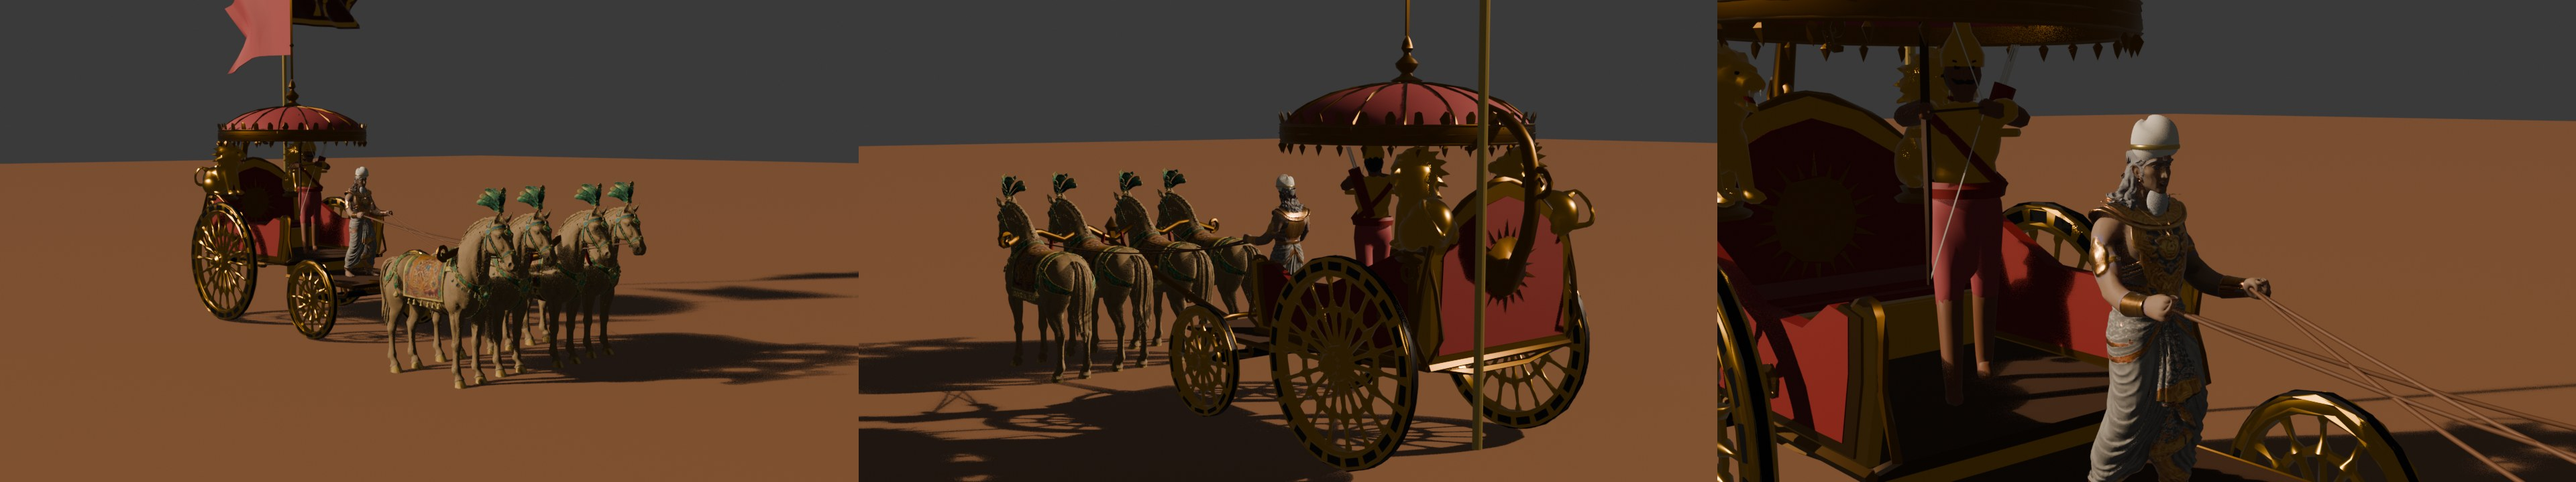
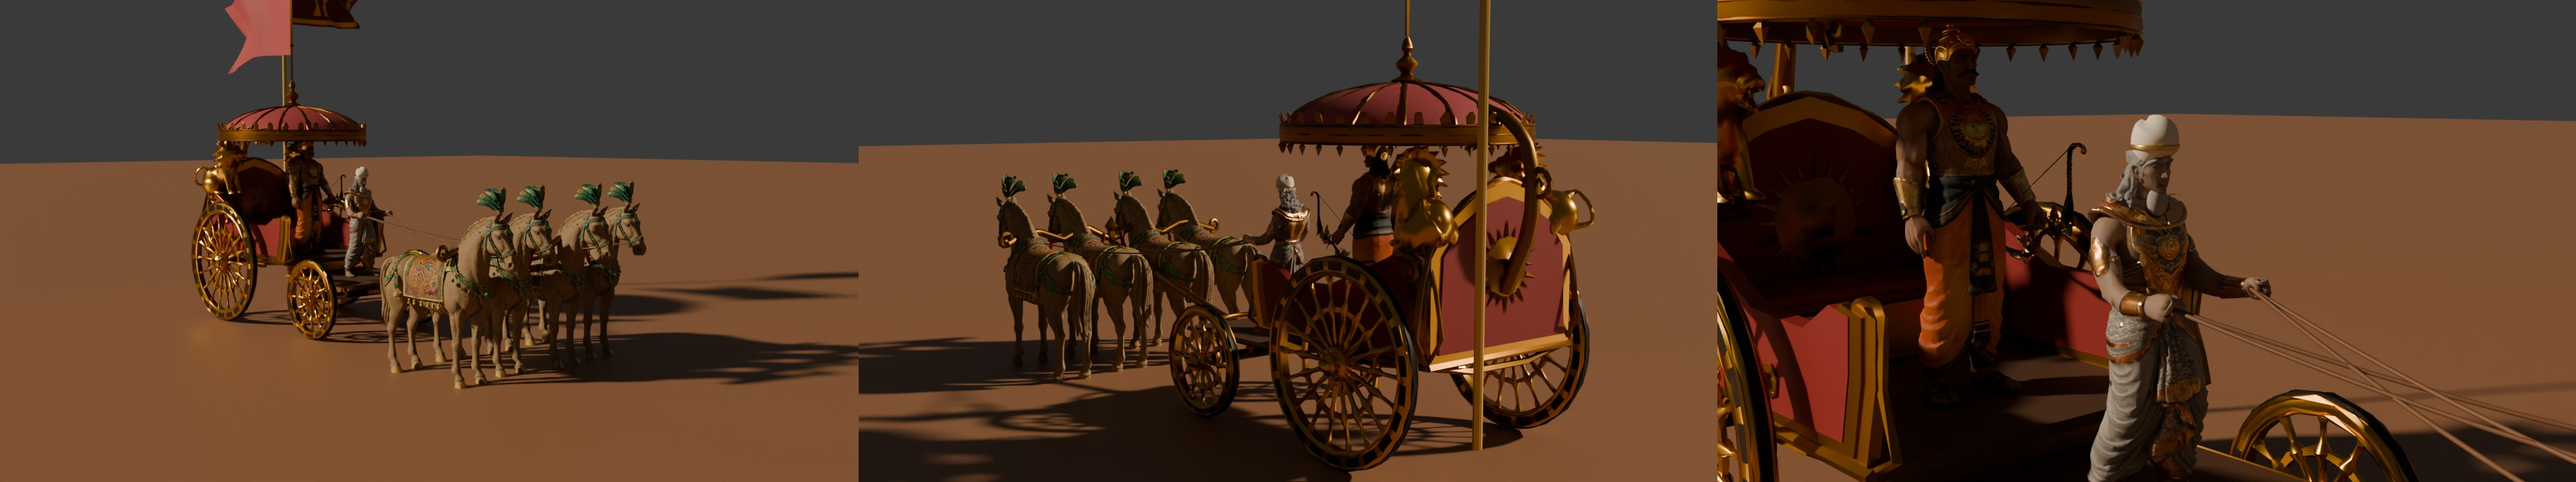
Put Karna (hero v4, Vijaya bow) on his chariot; fix the 13 GB check render
The kit chariot's generic archer is cut out like the kit driver, and Karna's
hero rig stands in his place with the Vijaya bow (decimated for mid-ground).
Check renders move to Cycles on the CPU with the heroes' render subdivision
off: that subdivision alone cost about 5.5 GB per hero and pushed the scene
past the 16 GB cloud box.

Claude-Session: https://claude.ai/code/session_01PKcboZPFsQWB6hA3KBm3Yg

diff --git a/studio/tools/blender/karna_chariot.py b/studio/tools/blender/karna_chariot.py
@@ -1,19 +1,24 @@
-"""Karna's chariot as used in the teaser: kit rank chariot (kit driver cut out), Shalya at the reins,
-the elephant's-rope standard, and a dun team of Hastinapur horses.
+"""Karna's chariot as used in the teaser: kit rank chariot (kit driver and kit archer cut out), Shalya at the
+reins, Karna (karna_hero_v4, Vijaya bow in his left fist) standing behind him, the elephant's-rope standard,
+and a dun team of Hastinapur horses.
 
     import karna_chariot
-    ch, shalya, team = karna_chariot.build(rigged=True, reins_on=True)   # team["rigs"] holds the horse rigs
+    ch, shalya, team, karna, bow = karna_chariot.build(rigged=True, reins_on=True)   # team["rigs"]: the horse rigs
 """
 import pathlib
 import bpy, bmesh
 from mathutils import Vector
 
 from anim_lib import Hero
-import banners, horse_gaits, horse_team, moves_ep01, reins
+import banners, horse_gaits, horse_team, moves, moves_ep01, reins
+from bows import Bow
 
 HERE = pathlib.Path(__file__).resolve().parent
 STUDIO = HERE.parent.parent
 KIT = pathlib.Path("/mnt/project-files/kurukshetra/hero/blend")
+KARNA = STUDIO / "cast/karna/model/rig/karna_hero_v4.blend"
+VIJAYA = STUDIO / "cast/karna/model/trellis_out/karna_bow_1536.glb"
+KARNA_AT = (0, 0.35, 1.07)            # the kit archer's place on the raised rear floor
 
 
 def append_kit(name):
@@ -24,8 +29,16 @@ def append_kit(name):
     return dst.objects[0]
 
 
-def cut_kit_driver(ch):
-    """every loose part on the front of the car: the kit driver's body, bow, reins and the two lion figureheads"""
+def _front(c, size):   # kit driver: body, bow, reins and the two lion figureheads
+    return abs(c.x) < 1.2 and -2.2 < c.y < -0.3 and 0.9 < c.z < 3.0 and size < 2.2
+
+
+def _archer(c, size):  # kit archer on the rear floor: legs, body, arms, head and bow (canopy ribs sit above z 2.95)
+    return abs(c.x) < 0.5 and -0.3 < c.y < 0.65 and 1.0 < c.z < 2.95 and size < 1.7
+
+
+def cut_kit_driver(ch, tests=(_front, _archer)):
+    """cut every loose part that one of `tests` picks (by centre and size)"""
     bm = bmesh.new(); bm.from_mesh(ch.data); bm.verts.ensure_lookup_table()
     seen, cut = set(), []
     for v0 in bm.verts:
@@ -40,13 +53,16 @@ def cut_kit_driver(ch):
         xs = [v.co.x for v in part]; ys = [v.co.y for v in part]; zs = [v.co.z for v in part]
         c = Vector((sum(xs), sum(ys), sum(zs))) / len(part)
         size = max(max(xs) - min(xs), max(ys) - min(ys), max(zs) - min(zs))
-        if abs(c.x) < 1.2 and -2.2 < c.y < -0.3 and 0.9 < c.z < 3.0 and size < 2.2:
+        if any(t(c, size) for t in tests):
             cut.extend(part)
     bmesh.ops.delete(bm, geom=cut, context="VERTS"); bm.to_mesh(ch.data); bm.free()
     return len(cut)
 
 
-def build(rigged=True, reins_on=True, coat="dun"):
+def build(rigged=True, reins_on=True, coat="dun", karna=True, bow_ratio=0.15, with_bow=True, subsurf=False):
+    """bow_ratio decimates the 451k-vertex Vijaya after its string hooks (it is a thin prop at mid distance).
+    subsurf=False turns off the heroes' render subdivision: with it on, Karna + Shalya + team pass the 16 GB cloud
+    box. Turn it on for close-ups (one hero in frame) or on a bigger machine."""
     ch = append_kit("krk_rank_chariot")
     for m in ch.data.materials:
         if m and m.name.startswith("MAT_Saffron"):
@@ -57,6 +73,20 @@ def build(rigged=True, reins_on=True, coat="dun"):
     h = Hero.load(STUDIO / "cast/shalya/model/rig/shalya_hero_v1.blend", "SHALYA", loc=(0, -1.0, 0.84), face=0)
     h.rig.parent = ch
     h.reset(); moves_ep01.charioteer(h, 0.4); h.key_all(1)
+    k = bow = None
+    if karna:
+        k = Hero.load(KARNA, "KARNA", loc=KARNA_AT, face=0); k.rig.parent = ch
+        if with_bow:
+            bow = Bow.vijaya(VIJAYA)
+            k.reset(); moves.bow_draw(k, 1.6); bow.attach(k)
+        if bow and bow_ratio < 1:
+            d = bow.obj.modifiers.new("lod", "DECIMATE"); d.ratio = bow_ratio
+        k.reset(); moves_ep01.stand_tall(k, 0.0); k.key_all(1)
+    for hero in (h, k):
+        if hero and not subsurf:                                    # the hero bodies' render subsurf costs ~5.5 GB each
+            for m in hero.body.modifiers:                           # in the CPU renderers; mid-ground shots don't need it
+                if m.type == "SUBSURF":
+                    m.show_render = False
     bpy.context.view_layer.update()
     if rigged:
         rigs = [bpy.data.objects[n] for n in team["rigs"]]
@@ -65,4 +95,13 @@ def build(rigged=True, reins_on=True, coat="dun"):
         bpy.context.view_layer.update()
         if reins_on:
             reins.add(ch, h.rig, rigs)
-    return ch, h, team
+    return ch, h, team, k, bow
+
+
+def cpu_render_settings(scene, samples=24):
+    """Cycles on the CPU for cloud checks: with Karna, Shalya and four horses, CPU EEVEE (llvmpipe) climbs past the
+    16 GB box limit while it compiles shaders; Cycles stays near 3 GB. Finals still go to EEVEE on a GPU (pipeline step 10)."""
+    scene.render.engine = "CYCLES"; scene.cycles.device = "CPU"
+    scene.cycles.samples = samples; scene.cycles.use_denoising = True; scene.cycles.denoiser = "OPENIMAGEDENOISE"
+    scene.cycles.max_bounces = 4; scene.cycles.use_adaptive_sampling = True
+    scene.render.use_persistent_data = True                                 # keep the BVH between frames of a clip

diff --git a/studio/tools/blender/chariot_gallop_check.py b/studio/tools/blender/chariot_gallop_check.py
@@ -1,4 +1,4 @@
-"""A05 check: Karna's chariot at full gallop. Shalya drives, four rigged Hastinapur horses (dun) gallop, reins strung.
+"""A05 check: Karna's chariot at full gallop. Karna stands with the Vijaya bow, Shalya drives, four rigged Hastinapur horses (dun) gallop, reins strung.
 
   EGL_PLATFORM=surfaceless python3 chariot_gallop_check.py <out.mp4|out.jpg> [--frames 48]
 A .jpg writes a 4x2 sheet of one stride (and the standing team with reins); an .mp4 renders a tracking shot.
@@ -22,13 +22,14 @@ bpy.ops.wm.read_factory_settings(use_empty=True)
 bpy.ops.preferences.addon_enable(module="rigify")
 sc = bpy.context.scene
 sc.render.fps = FPS; sc.frame_start, sc.frame_end = 1, FRAMES
-ch, h, team = karna_chariot.build(rigged=True, reins_on=True)
+ch, h, team, k, bow = karna_chariot.build(rigged=True, reins_on=True)
 rigs = [bpy.data.objects[n] for n in team["rigs"]]
 
 for f in range(1, FRAMES + 1):
     t = (f - 1) / FPS
     ch.location = (0, -SPEED * t, 0); ch.keyframe_insert("location", frame=f)
     h.reset(); moves_ep01.charioteer(h, t, sway=1.6); h.key_all(f)
+    k.reset(); moves_ep01.stand_tall(k, t); k.turn("hips", "Y", 2.5 * math.sin(2 * math.pi * t / 0.48), keep=True); k.key_all(f)
 for i, r in enumerate(rigs):                                   # the four do not step in lockstep
     horse_gaits.key(r, "gallop", 1, FRAMES, FPS, phase=(0.0, 0.07, 0.03, 0.11)[i])
 for fc in ch.animation_data.action.fcurves if hasattr(ch.animation_data.action, "fcurves") else []:
@@ -45,7 +46,7 @@ bpy.ops.mesh.primitive_plane_add(size=400); bpy.context.object.data.materials.ap
 sun = bpy.data.lights.new("sun", "SUN"); sun.energy = 4.5; sun.color = (1.0, 0.82, 0.62); sun.angle = 0.05
 so = bpy.data.objects.new("sun", sun); sc.collection.objects.link(so); so.rotation_euler = (math.radians(55), 0, math.radians(-60))
 sc.world = bpy.data.worlds.new("sky"); sc.world.color = (0.55, 0.62, 0.75)
-sc.render.engine = "BLENDER_EEVEE"; sc.eevee.taa_render_samples = 8
+karna_chariot.cpu_render_settings(sc, 16)
 sc.render.resolution_x, sc.render.resolution_y = 960, 540
 cam = bpy.data.cameras.new("cam"); co = bpy.data.objects.new("cam", cam); sc.collection.objects.link(co); sc.camera = co
 co.parent = ch; pos, aim = Vector((-13.5, -4.2, 2.4)), Vector((0, -2.6, 1.4))   # tracking alongside, as A05

diff --git a/studio/tools/blender/shalya_chariot_check.py b/studio/tools/blender/shalya_chariot_check.py
@@ -1,7 +1,7 @@
 """Check render: Shalya driving Karna's chariot (dun team of Hastinapur TRELLIS horses, elephant's-rope standard), mid-ground, as in A02, A06, A16.
 
   EGL_PLATFORM=surfaceless python3 shalya_chariot_check.py <out.jpg>
-Scene from karna_chariot.build: kit driver cut out, Shalya at the reins (moves_ep01.charioteer), reins to each bit. EEVEE, 1280x720, three angles side by side.
+Scene from karna_chariot.build: kit driver cut out, Shalya at the reins (moves_ep01.charioteer), reins to each bit. Cycles CPU, 1280x720, three angles side by side.
 """
 import math, pathlib, sys
 import bpy
@@ -15,14 +15,14 @@ OUT = pathlib.Path(sys.argv[-1]).resolve()
 bpy.ops.wm.read_factory_settings(use_empty=True)
 bpy.ops.preferences.addon_enable(module="rigify")
 sc = bpy.context.scene
-ch, h, team = karna_chariot.build(rigged=True, reins_on=True)       # rigged Hastinapur horses standing, reins strung
+ch, h, team, k, bow = karna_chariot.build(rigged=True, reins_on=True)       # rigged Hastinapur horses standing, reins strung
 
 gnd_mat = bpy.data.materials.new("earth"); gnd_mat.node_tree.nodes["Principled BSDF"].inputs["Base Color"].default_value = (0.32, 0.16, 0.08, 1)
 bpy.ops.mesh.primitive_plane_add(size=200); bpy.context.object.data.materials.append(gnd_mat)
 sun = bpy.data.lights.new("sun", "SUN"); sun.energy = 4.5; sun.color = (1.0, 0.8, 0.6); sun.angle = 0.05
 so = bpy.data.objects.new("sun", sun); sc.collection.objects.link(so); so.rotation_euler = (math.radians(62), 0, math.radians(-120))
 sc.world = bpy.data.worlds.new("sky"); sc.world.color = (0.55, 0.62, 0.75)
-sc.render.engine = "BLENDER_EEVEE"; sc.eevee.taa_render_samples = 16
+karna_chariot.cpu_render_settings(sc, 24)
 sc.render.resolution_x, sc.render.resolution_y = 1280, 720
 cam = bpy.data.cameras.new("cam"); co = bpy.data.objects.new("cam", cam); sc.collection.objects.link(co); sc.camera = co
 shots = []
